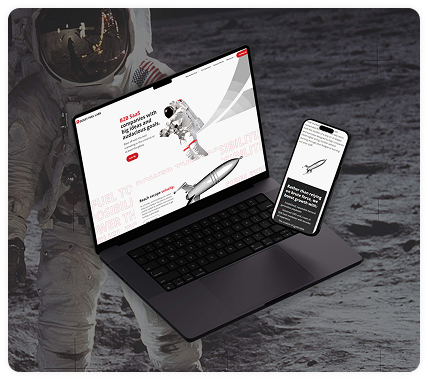
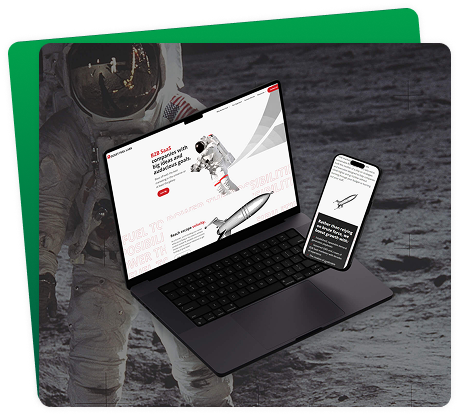
save

diff --git a/src/styles/pages/_home.scss b/src/styles/pages/_home.scss
@@ -837,7 +837,7 @@
 
 		&--featured-cls{
 			width: 100%;
-			padding-bottom: 170px;
+			padding-bottom: 180px;
 			
 			&__inner{
 				max-width: var(--page-width);
@@ -846,16 +846,19 @@
 				margin-inline: auto;
 				display: flex;
 				justify-content: space-between;
+				align-items: center;
 				gap: 45px;
+
+				@media (max-width: 992px) {
+					flex-direction: column;	
+				}
 			}
 
 			&__details{
 				max-width: 600px;
-
 				h2{
 					max-width: 500px;
 				}
-
 				p{
 					max-width: 550px;
 					font-weight: 300;
@@ -931,7 +934,6 @@
 						--cls-cta-icon-color: #131212;
 					}
 				}
-
 				.prj-cls-title{
 					font-weight: 500;
 					opacity: 1;
@@ -941,30 +943,57 @@
 				.prj-cls-desc{
 					font-weight: 300;
 				}
+				@media (max-width: 992px) {
+					max-width: 100%;
+					h2{
+						max-width: 100%;
+					}
+					p{
+						max-width: 100%;
+					}
+					.cls-cta{
+						margin-top: 10px;
+					}
+				}
 			}
 
 			&__images{
-				width: 420px;
-				height: 420px;
-
-				.back-img{
-					
-				}
 				.main-img{
-					width: 360px;
-					height: 330px;
+					// width: 420px;
+					height: 390px;
 					border-radius: 12px;
 					position: relative;
-
-					&::before{
-						position: absolute;
-						content: '';
-						width: 360px;
-						height: 330px;
-						background: var(--primary-color);
+					margin-right: 60px;
+					transform: translateY(-40px);
+					overflow: visible;
+					.prj-img{
+						position: relative;
+						z-index: 1;
+						width: 100%;
+						height: 100%;
+						object-fit: cover;
 						border-radius: 12px;
-						rotate: -10deg;
-						z-index: -1;
+						overflow: visible;
+					}
+
+					.laptop-img{
+						position: absolute;
+						z-index: 2;
+						bottom: -3rem;
+						right: -4rem;
+
+						@media (max-width: 492px) {
+							height: 35vw;
+							right: -2rem;
+							bottom: -1.7rem;
+						}
+					}
+
+					@media (max-width: 1100px) {
+						height: auto;
+					}
+					@media (max-width: 492px) {
+						margin-right: 30px;
 					}
 				}
 			}
@@ -976,7 +1005,12 @@
 				background-color: var(--cls-border-hr);
 				margin-top: 24px;
 				margin-bottom: 34px;
+				@media (max-width: 992px) {
+					max-width: 100%;
+				}
 			}
+
+
 		}
 	}
 
